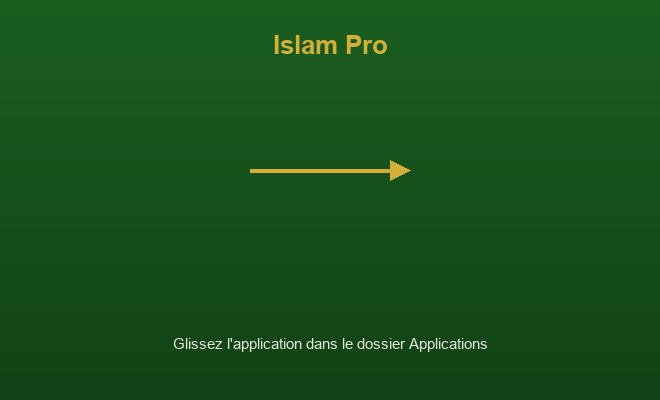
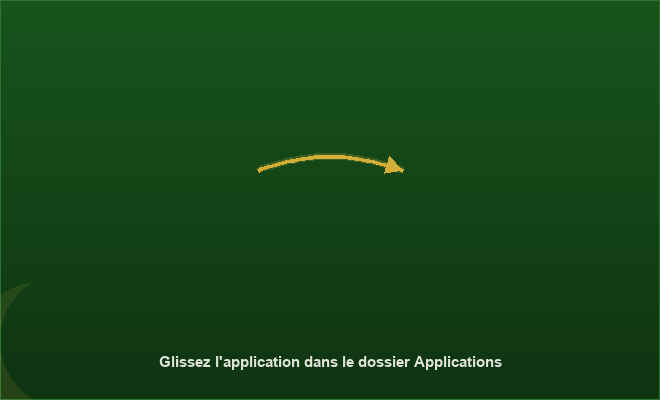
Fix city search on desktop/web (real geolocation bug), simplify DMG background, add installer build script
expo-location's geocodeAsync is unimplemented on web and throws
unconditionally, so typing a city name in the prayer screen's search
box always failed silently, leaving only the ~10 hardcoded popular
cities as options. Add geocodePlaceName() using Nominatim (OpenStreetMap,
works on every platform) so any place name resolves, including small
towns the hardcoded list never had.

Simplify the DMG background: drop the 2x-resolution export (Finder/
hdiutil doesn't auto-detect it as retina, so the window ended up
showing a cropped quarter of the image with the text cut off) and
move the crescent watermark out of the arrow's path.

Add src-tauri/build-installer.sh, which renames the built DMG's
volume and output filename to "Islam Pro Installer" — Tauri's
DmgConfig has no field for this, it always derives the name from
productName.

diff --git a/apps/mobile/src/services/locationService.ts b/apps/mobile/src/services/locationService.ts
@@ -49,3 +49,27 @@ export async function getDeviceLocation(): Promise<Coords | null> {
 
   return getIpLocation();
 }
+
+// expo-location's geocodeAsync throws unconditionally on web (unimplemented),
+// so typed city search never found anything smaller than the hardcoded
+// popular-cities list. Nominatim (OpenStreetMap) works on every platform and
+// resolves villages that Aladhan's own city lookup wouldn't recognize either.
+export async function geocodePlaceName(query: string): Promise<Coords | null> {
+  try {
+    const { data } = await withTimeout(
+      axios.get('https://nominatim.openstreetmap.org/search', {
+        params: { q: query, format: 'json', limit: 1 },
+        headers: { 'Accept-Language': 'fr' },
+      }),
+      8000,
+      'Geocoding timed out'
+    );
+    if (Array.isArray(data) && data.length > 0) {
+      const { lat, lon } = data[0];
+      return { latitude: parseFloat(lat), longitude: parseFloat(lon) };
+    }
+    return null;
+  } catch {
+    return null;
+  }
+}

diff --git a/apps/mobile/app/(tabs)/prayer.tsx b/apps/mobile/app/(tabs)/prayer.tsx
@@ -11,7 +11,6 @@ import {
 } from 'react-native';
 import { SafeAreaView } from 'react-native-safe-area-context';
 import { Ionicons } from '@expo/vector-icons';
-import * as Location from 'expo-location';
 import { useApp } from '../../src/context/AppContext';
 import { colors, spacing, borderRadius, shadows } from '../../src/constants/theme';
 import {
@@ -21,7 +20,7 @@ import {
   PrayerTimes,
   HijriDate,
 } from '../../src/services/prayerService';
-import { getDeviceLocation } from '../../src/services/locationService';
+import { getDeviceLocation, geocodePlaceName } from '../../src/services/locationService';
 import Touchable from '../../src/components/Touchable';
 import LoadingSplash from '../../src/components/LoadingSplash';
 import { withTimeout } from '../../src/utils/withTimeout';
@@ -163,18 +162,14 @@ export default function PrayerScreen() {
       setNotFound(false);
 
       // Geocode any place name (even small villages) into coordinates.
-      const results = await withTimeout(
-        Location.geocodeAsync(query),
-        8000,
-        'Geocoding timed out'
-      );
+      const result = await geocodePlaceName(query);
 
-      if (!results || results.length === 0) {
+      if (!result) {
         setNotFound(true);
         return;
       }
 
-      const { latitude, longitude } = results[0];
+      const { latitude, longitude } = result;
       setSelectedCity(query);
       setLocation({ latitude, longitude });
 